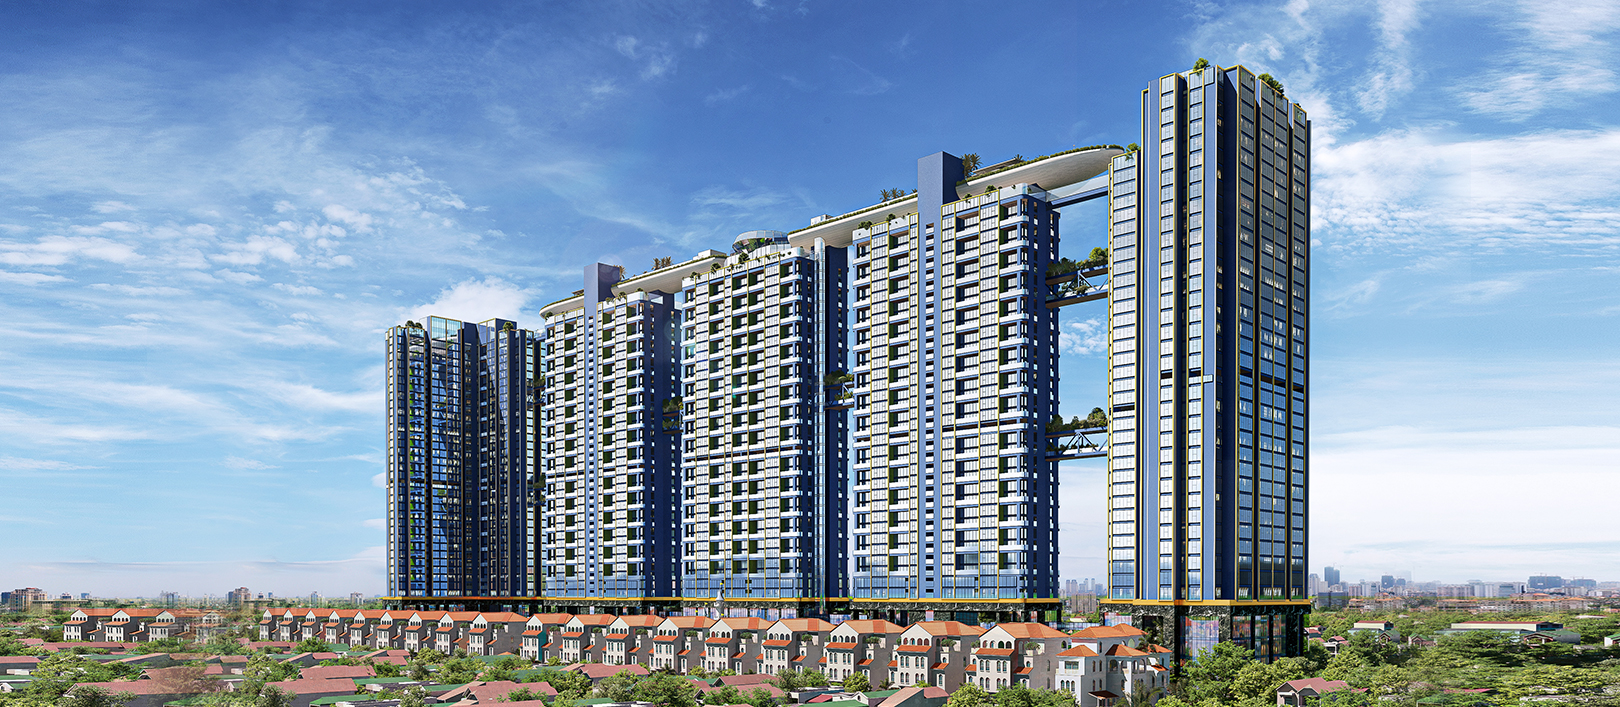
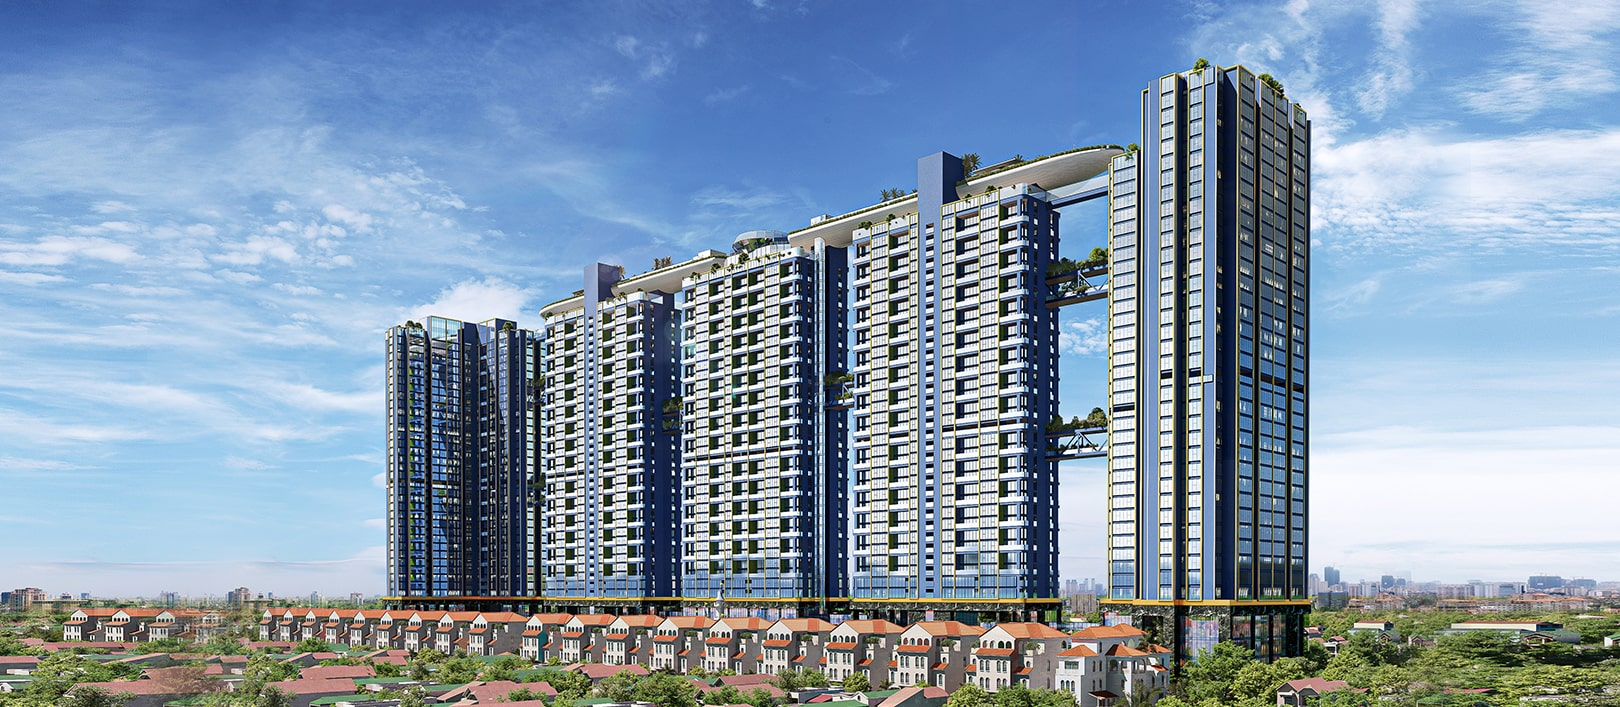
optimize images and menu mobile

diff --git a/src/scss/_page.scss b/src/scss/_page.scss
@@ -408,7 +408,7 @@ button {
         opacity: 0;
         transition: all 0.3s ease;
         @media (max-width: 767px) {
-            width: 50%;
+            width: 70%;
             height: 100% !important;
             background: #121d25d1;
             top: 13vw;
